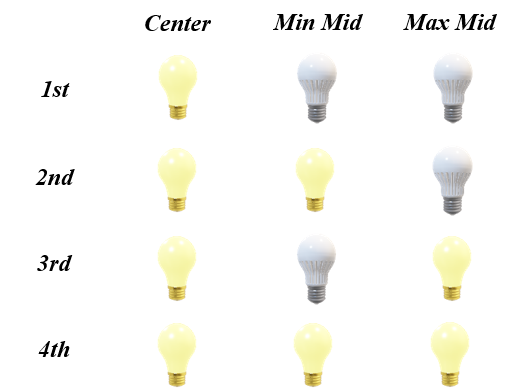
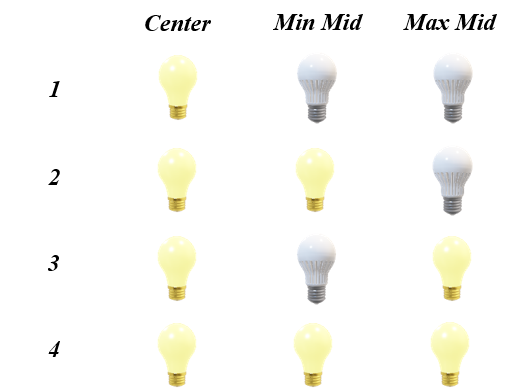
experiment updated

diff --git a/Student_Project_Report.tex b/Student_Project_Report.tex
@@ -242,7 +242,7 @@ These problems are addressed in following points. Each of them will be provided 
 
 \section{Occluded Area Ratio of Mesh} \label{sec:occluded area ratio of mesh}
 
-In this part we have to prove that as the number of viewpoints increase, there will be more visible area. In another word, there's less invisible region and thus lower occlusion. As shown in figure \ref{fig:scene with light sources}, which is generated by simulating a scene with multiple light sources in blender[Blender], the scene with 2 viewpoints has more bright area and less shadow, this also matches our intuition in real life. 
+In this part we have to prove that as the number of viewpoints increase, there will be more visible area. \FIXME{rephrase}In another word, there's less invisible region and thus lower occlusion. As shown in figure \ref{fig:scene with light sources}, which is generated by simulating a scene with multiple light sources in blender[Blender], the scene with 2 viewpoints has more bright area and less shadow, this also matches our intuition in real life. 
 
 \vspace{10pt}
 
@@ -299,7 +299,7 @@ Based on what we stated above, we choose \textit{Boundary ray ratio} as the metr
 
 \section{Performance Evaluation of Semantic Segmentation} \label{sec:performance evaluation}
 
-This step is to find correlation between occlusion level and performance of semantic segmentation. From previous steps we can already compute occlusion level of a point cloud. The problem here is to use some metrics to evaluate the performance of segmentation. In the part \ref{par:scene flow} where we mentioned the related work about scene flow, the author applied F1 score to evaluate their results. This will be considered as one of the options for evaluation. With metrics we computed before we can finally investigate how would the evaluation metrics change with different occlusion level. 
+This step is to find correlation between occlusion level and performance of semantic segmentation. From previous steps we can already compute occlusion level of a point cloud. The problem here is to use some metrics to evaluate the performance of segmentation. In Section \ref{par:scene flow}, the author of the related work about scene flow, applied F1 score to evaluate their results. This will be considered as one of the options for evaluation. With metrics we computed before we can finally investigate how would the evaluation metrics change with different occlusion level. 
 
 %=====================================================================
 \chapter{Technical Solution} \label{chp:solution}
@@ -327,7 +327,7 @@ It's difficult to accurately compute occluded area of a triangle, since we don't
 
 \subsection{Sample Triangles} \label{subsec:sample triangle}
 
-In order to make samplings cover the area of triangle uniformly, we take 2 sampling algorithms into consideration. They are uniform sampling and halton sampling. The only difference of these methods is the way they generate random numbers. With these number we calculate barycentric coordinates based on vertices of triangle. 
+In order to make samplings cover the area of triangle uniformly, we take 2 sampling algorithms into consideration. There are uniform sampling and halton sampling. The only difference of these methods is the way they generate random numbers. With these number we calculate barycentric coordinates based on vertices of triangle. 
 
 \paragraph{Uniform Sampling}
 
@@ -481,7 +481,7 @@ One of the most efficient and widely used algorithms for this purpose is the \te
 \end{algorithmic}
 \end{algorithm}
 
-\subsection{occluded Area Ratio}
+\subsection{Occluded Area Ratio}
 
 From previous steps, we have computed samplings on each triangle and generated rays originating from these samplings directed towards the viewpoints. As opposed to directly compute occluded area, we detect visible samplings here. We use visible weight represents the ratio of visible samplings to the total number of samplings on the triangle. With this weight we compute visible area for each triangle, then we sum up them to get the total visible area, and the ratio can be easily calculated with total area. Mathematically, the visibility weight, \( w \), can be defined as:
 \[ 
@@ -691,7 +691,7 @@ The quantities in the formula are calculated as follows:
     \textit{{occlusion}} = \textit{{non-boundary ray count}}
 \]
 \[
-    \textit{{visibility}} = \textit{{1-boundary ray count}} + 2 \cdot \textit{{2-boundary ray count}}
+    \textit{{visibility}} = \textit{{1-boundary ray count}} + 2 \cdot \textit{{2-boundary ray count}} \FIXME{change the formula}
 \]
 
 By evaluating the occlusion level with the above formula, we can analyze the proportion of rays that are obstructed versus those that are not, providing insight into the level of visibility within the scene.
@@ -921,35 +921,9 @@ Computation of ray-opening intersection plays an crucial role in calculating bou
 
 The initial step is fitting a plane to each cluster's point data. For this, we rely on the RANSAC algorithm embedded within PCL. In the code snippet shown below, PCL's \textit{SACSegmentation} is configured to detect planar models. If successful, it retrieves the plane's coefficients.
 
-\begin{lstlisting}[language=C++, caption=Compute Plane Coefficients]
-pcl::ModelCoefficients::Ptr coefficients(new pcl::ModelCoefficients);
-pcl::PointIndices::Ptr inliers(new pcl::PointIndices);
-pcl::SACSegmentation<pcl::PointXYZ> seg;
-seg.setOptimizeCoefficients(false);
-seg.setModelType(pcl::SACMODEL_PLANE); // SACMODEL_PLANE
-seg.setMethodType(pcl::SAC_RANSAC); // SAC_RANSAC
-seg.setDistanceThreshold(0.01);
-seg.setInputCloud(cloud);
-seg.segment(*inliers, *coefficients);
-\end{lstlisting}
-
 \paragraph{Formation of Polygon}
 
 With the plane's coefficients, our next move is to project every point in the cluster onto this plane. This ensures that all points lie in a co-planar fashion. Once our points sharing a planar space, we compute the convex hull of each cluster. This results in a 2D polygon within a 3D space, effectively enveloping all the cluster points.
-
-\begin{lstlisting}[language=C++, caption=Projecting Points onto Plane]
-pcl::ProjectInliers<pcl::PointXYZ> proj;
-proj.setModelType(pcl::SACMODEL_PLANE);
-proj.setInputCloud(cloud);
-proj.setModelCoefficients(coefficients);
-pcl::PointCloud<pcl::PointXYZ>::Ptr cloud_projected(new pcl::PointCloud<pcl::PointXYZ>);
-proj.filter(*cloud_projected);
-pcl::ConvexHull<pcl::PointXYZ> chull;
-pcl::PointCloud<pcl::PointXYZ>::Ptr cloud_hull(new pcl::PointCloud<pcl::PointXYZ>);
-chull.setDimension(2);
-chull.setInputCloud(cloud_projected);
-chull.reconstruct(*cloud_hull);
-\end{lstlisting}
 
 Here, PCL's \textit{ProjectInliers} projects the points onto the detected plane, thereby creating a co-planar point cloud, which we refer to as \textit{cloud projected}. The usage of PCL's \textit{ConvexHull} class create a cloud representing the polygon.
 
@@ -1139,10 +1113,6 @@ bool Occlusion::rayIntersectOctreeNode(Ray& ray, OctreeNode& node) {
 
 It is pivotal to highlight the adoption of a threshold value (in this context, \(1e-8\)) to ascertain numerical stability. When the ray's directional component for a distinct axis approaches zero, the ray becomes nearly parallel to the planes of the bounding box on that specific axis. This peculiarity is addressed by the function by attributing `t-values` to positive or negative infinity as required. This algorithm is optimized for efficiency and enables swift determinations of ray-bounding box intersections, a property that's indispensable for maintaining high performance in graphical applications.
 
-\subsection{Computation of Evaluation Metrics}
-
-There's also some implementation detail in this part worth to mention. Maps are built based on ground truth label and semantics applied in Minkowski Engine.
-
 \section{Auxiliary Components} \label{subsec:supporting libraries}
 
 Several auxiliary libraries play a pivotal role in our system, furnishing it with additional functionalities and capabilities. We briefly discuss these libraries and their respective roles in our pipeline.
@@ -1286,30 +1256,6 @@ Below are the buttons on the user interface.
 
 \subsection{Software Structure}
 
-\begin{figure}[H]
-    \centering
-    \includegraphics*[width=1.0\textwidth]{figures/Minkowski Engine.png}
-    \caption{Flowchart of the Software}
-    \label{fig:flowchart}
-\end{figure}
-
-\paragraph{Class Diagram}
-
-\begin{figure}[H]
-    \centering
-    \includegraphics*[width=1.0\textwidth]{figures/Minkowski Engine.png}
-    \caption{Flowchart of the Software}
-    \label{fig:flowchart}
-\end{figure}
-
-\paragraph{Sequence Diagram}
-
-\begin{figure}[H]
-    \centering
-    \includegraphics*[width=1.0\textwidth]{figures/Minkowski Engine.png}
-    \caption{Flowchart of the Software}
-    \label{fig:flowchart}
-\end{figure}
 
 \subsection{Command Line Only Mode}
 
@@ -1335,7 +1281,7 @@ Experiment is one of the most important steps to evaluate the approaches present
 
 \section{Validation}
 
-The validation phase start by computing occlusion level of ground truth mesh. Different strategy of the placement of viewpoints will be applied to this scene. After that we compare the occlusion between estimated mesh and visible sampling cloud.
+The validation phase start by computing occlusion level of ground truth mesh. Different strategies of the placement of viewpoints will be applied to this scene. After that we compare the occlusion between estimated mesh and visible sampling cloud.
 
 \subsection{Occlusion Level of Ground Truth Mesh} \label{exp:occlusion of ground truth mesh}
 
@@ -1355,7 +1301,7 @@ There are around 10000 triangles in this scene, to simplify the computation, we 
 
 \begin{figure}[H]
     \centering
-    \includegraphics*[width=0.45\textwidth]{figures/pattern of viewpoints.png}
+    \includegraphics*[width=0.55\textwidth]{figures/pattern of viewpoints.png}
     \caption{Pattern of Viewpoints}
     \label{fig:pattern of viewpoints}
 \end{figure}
@@ -1368,13 +1314,14 @@ Our results are shown in Table \ref{tab:result of each experiment}. We can see t
     \centering
     \begin{tabular}{|c|c|}
         \hline
-        \textbf{Experiment No.} & \textbf{Occlusion Level} \\
+        \textbf{Pattern} & \textbf{Occluded Area Ratio} \\
         \hline
-        1st & 0.570 \\
-        2nd & 0.484 \\
-		3rd & 0.453 \\
-		4th & 0.391 \\
-        Corner case 1 & 0.914 \\
+        1 & 0.570 \\
+        2 & 0.484 \\
+		3 & 0.453 \\
+		4 & 0.391 \\
+        Under Table & 0.914 \\
+        Pure Cube & 0.000 \\
 
         \hline
     \end{tabular}
@@ -1382,24 +1329,203 @@ Our results are shown in Table \ref{tab:result of each experiment}. We can see t
     \label{tab:result of each experiment}
 \end{table}
 
-Except for patterns we mentioned above, we also added one corner case where we put one viewpoint right below the center as shown in Figure \ref{fig:corner case}. The only difference is that the Z-value of this viewpoint is equal to the minimal vertex of the scene. The center viewpoint is also shown since we want to display the relative position of the viewpoint used in corner case to it, but we don't consider it for computation. Based on its special position, most of the rays cast from samplings should be blocked by the table. And the value 0.914 can verify that in this case most samplings are unseen by this viewpoint, which makes the metric \textit{occluded area ratio} more reliable.
+Except for patterns we mentioned above, we also added 2 corner cases where in the first case we put one viewpoint right below the center as shown in Figure \ref{fig:corner case under table}. The only difference is that the Z-value of this viewpoint is equal to the minimal vertex of the scene. The center viewpoint is also shown since we want to display the relative position of the viewpoint used in corner case to it, but we don't consider it for computation. Based on its special position, most of the rays cast from samplings should be blocked by the table. The value \textbf{0.914} can verify that in this case most samplings are occluded to this viewpoint, 
 
 \begin{figure}[H]
     \centering
-    \includegraphics*[width=0.6\textwidth]{figures/edge case-under table.png}
-    \caption{Corner Case}
-    \label{fig:corner case}
+    \includegraphics*[width=0.8\textwidth]{figures/edge case-under table.png}
+    \caption{Corner Case - Under Table}
+    \label{fig:corner case under table}
 \end{figure}
+
+In the other corner case we change the scene to a pure cube where there's no clutter inside it. Thus, all samplings should be visible to a viewpoint inside the cube regardless of its position. The resulting visible sampling cloud is shown in Figure \ref{fig:corner case pure cube}. Our pipeline output the value \textbf{0}, which can also validate the correctness of computation. 
+
+\begin{figure}[H]
+    \centering
+    \includegraphics*[width=0.45\textwidth]{figures/cube with all samples.png}
+    \caption{Corner Case - Pure Cube}
+    \label{fig:corner case pure cube}
+\end{figure}
+
+Based on results presented above, we can take the \textit{Occluded Area Ratio} as a reliable metric to represent the occlusion level of a mesh.
 
 \subsection{Estimated Mesh and Visible Sampling Cloud}
 
-Here we want to validate that the difference of occlusion level between the estimated mesh and visible sampling cloud should be within a relative small range. 
+In this section we are going to compute occlusion level of estimated mesh and visible sampling cloud respectively. 
 
 \paragraph{Setup}
 
-We prepare 3 original point clouds with name \textit{conference room 1}, \textit{conference room 2} and \textit{copy room} respectively. For each of them, we estimate a mesh via \textit{GoCoPP}. Then for each mesh, we conduct the same workflow in Section \ref{exp:occlusion of ground truth mesh}.
+We prepare 3 original point clouds with name \textit{conference room 1}, \textit{conference room 2} and \textit{copy room} respectively. For each of them, we estimate a mesh via \textit{GoCoPP}. Then for each mesh, we conduct the same workflow described in Section \ref{exp:occlusion of ground truth mesh} and we can get the \textit{Occluded Area Ratio}. Since we have computed the ratio, the visible sampling cloud was also generated. The next step is to apply the computation pipeline for \textit{Boundary Ray Ratio}. Above workflow will be conducted for each scene 4 times as we would keep the same viewpoint strategy presented in Figure \ref{fig:pattern of viewpoints}.    
 
-\paragraph{Results}
+\paragraph{Conference Room 1} \label{par:conf1 result}
+
+We present the visualization of the scene \textit{Conference Room 1} in each step. Figure \ref{fig:estimate mesh from conference room 1} shows the result of mesh estimation. To detect boundary ray 
+we have to estimate each point's category in terms of boundary from visible sampling cloud, where we use white color to represent boundary point and blue for non-boundary point as shown in the left part pf Figure \ref{fig:conf1 0}. To better deliver the structure of the visible sampling cloud, in the right part there's a cloud with estimated ground truth RGB information.
+
+\vspace{10pt}
+
+In the end of this part, result of computation for \textit{Occluded Area Ratio} and \textit{Boundary Ray Ratio} is shown in Table \ref{tab:result of conference room 1}.
+
+\begin{figure}[H]
+    \centering
+    \includegraphics*[width=1.0\textwidth]{figures/estimate conf1.png}
+    \caption{Estimate Mesh from Conference Room 1}
+    \label{fig:estimate mesh from conference room 1}
+\end{figure}
+
+\begin{figure}[H]
+    \centering
+    \includegraphics*[width=1.0\textwidth]{figures/conf1 0.png}
+    \caption{Estimated Boundary and Semantics of Conference Room 1 with Viewpoint Pattern 1}
+    \label{fig:conf1 0}
+\end{figure}
+
+\begin{figure}[H]
+    \centering
+    \includegraphics*[width=1.0\textwidth]{figures/conf1 4.png}
+    \caption{Estimated Boundary and Semantics of Conference Room 1 with Viewpoint Pattern 2}
+    \label{fig:conf1 4}
+\end{figure}
+
+\begin{figure}[H]
+    \centering
+    \includegraphics*[width=1.0\textwidth]{figures/conf1 5.png}
+    \caption{Estimated Boundary and Semantics of Conference Room 1 with Viewpoint Pattern 3}
+    \label{fig:conf1 5}
+\end{figure}
+
+\begin{figure}[H]
+    \centering
+    \includegraphics*[width=1.0\textwidth]{figures/conf1 6.png}
+    \caption{Estimated Boundary and Semantics of Conference Room 1 with Viewpoint Pattern 4}
+    \label{fig:conf1 6}
+\end{figure}
+
+\begin{table}[H]
+    \centering
+    \begin{tabular}{|c|c|c|}
+        \hline
+        \textbf{Pattern} & \textbf{Occluded Area Ratio} & \textbf{Boundary Ray Ratio} \\
+        \hline
+        1 & 0.291 & 0.271 \\
+        2 & 0.108 & 0.172 \\
+		3 & 0.153 & 0.211 \\
+		4 & 0.071 & 0.165 \\
+        \hline
+    \end{tabular}
+    \caption{Result of Conference Room 1}
+    \label{tab:result of conference room 1}
+\end{table}
+
+\paragraph{Conference Room 2}
+
+We present the visualization of the scene \textit{Conference Room 2} in each step as explained in \ref{par:conf1 result}. Result is shown in Table \ref{tab:result of conference room 2}.
+
+\begin{figure}[H]
+    \centering
+    \includegraphics*[width=1.0\textwidth]{figures/estimate conf2.png}
+    \caption{Estimate Mesh from Conference Room 2}
+    \label{fig:estimate mesh from conference room 2}
+\end{figure}
+
+\begin{figure}[H]
+    \centering
+    \includegraphics*[width=1.0\textwidth]{figures/conf2 0.png}
+    \caption{Estimated Boundary and Semantics of Conference Room 2 with Viewpoint Pattern 1}
+    \label{fig:conf2 0}
+\end{figure}
+
+\begin{figure}[H]
+    \centering
+    \includegraphics*[width=1.0\textwidth]{figures/conf2 4.png}
+    \caption{Estimated Boundary and Semantics of Conference Room 2 with Viewpoint Pattern 2}
+    \label{fig:conf2 4}
+\end{figure}
+
+\begin{figure}[H]
+    \centering
+    \includegraphics*[width=1.0\textwidth]{figures/conf2 5.png}
+    \caption{Estimated Boundary and Semantics of Conference Room 2 with Viewpoint Pattern 3}
+    \label{fig:conf2 5}
+\end{figure}
+
+\begin{figure}[H]
+    \centering
+    \includegraphics*[width=1.0\textwidth]{figures/conf2 6.png}
+    \caption{Estimated Boundary and Semantics of Conference Room 2 with Viewpoint Pattern 4}
+    \label{fig:conf2 6}
+\end{figure}
+
+\begin{table}[H]
+    \centering
+    \begin{tabular}{|c|c|c|}
+        \hline
+        \textbf{Pattern} & \textbf{Occluded Area Ratio} & \textbf{Boundary Ray Ratio} \\
+        \hline
+        1 & 0.371 & 0.329 \\
+        2 & 0.294 & 0.258 \\
+		3 & 0.264 & 0.255 \\
+		4 & 0.218 & 0.224 \\
+        \hline
+    \end{tabular}
+    \caption{Result of Conference Room 2}
+    \label{tab:result of conference room 2}
+\end{table}
+
+\paragraph{Copy Room}
+
+We present the visualization of the scene \textit{Copy Room} in each step as explained in \ref{par:conf1 result}. Result is shown in Table \ref{tab:result of copy room}.
+
+\begin{figure}[H]
+    \centering
+    \includegraphics*[width=1.0\textwidth]{figures/estimate copy.png}
+    \caption{Estimate Mesh from Conference Room 1}
+    \label{fig:estimate mesh from copy room}
+\end{figure}
+
+\begin{figure}[H]
+    \centering
+    \includegraphics*[width=1.0\textwidth]{figures/copy 0.png}
+    \caption{Estimated Boundary and Semantics of Copy Room with Viewpoint Pattern 1}
+    \label{fig:copy 0}
+\end{figure}
+
+\begin{figure}[H]
+    \centering
+    \includegraphics*[width=1.0\textwidth]{figures/copy 4.png}
+    \caption{Estimated Boundary and Semantics of Copy Room with Viewpoint Pattern 2}
+    \label{fig:copy 4}
+\end{figure}
+
+\begin{figure}[H]
+    \centering
+    \includegraphics*[width=1.0\textwidth]{figures/copy 5.png}
+    \caption{Estimated Boundary and Semantics of Copy Room with Viewpoint Pattern 3}
+    \label{fig:copy 5}
+\end{figure}
+
+\begin{figure}[H]
+    \centering
+    \includegraphics*[width=1.0\textwidth]{figures/copy 6.png}
+    \caption{Estimated Boundary and Semantics of Copy Room with Viewpoint Pattern 4}
+    \label{fig:copy 6}
+\end{figure}
+
+\begin{table}[H]
+    \centering
+    \begin{tabular}{|c|c|c|}
+        \hline
+        \textbf{Pattern} & \textbf{Occluded Area Ratio} & \textbf{Boundary Ray Ratio} \\
+        \hline
+        1 & 0.156 & 0.366 \\
+        2 & 0.090 & 0.343 \\
+		3 & 0.070 & 0.337 \\
+		4 & 0.040 & 0.331 \\
+        \hline
+    \end{tabular}
+    \caption{Result of Copy Room}
+    \label{tab:result of copy room}
+\end{table}
 
 \section{Evaluate Segmentation Performance of Point Cloud}
 
